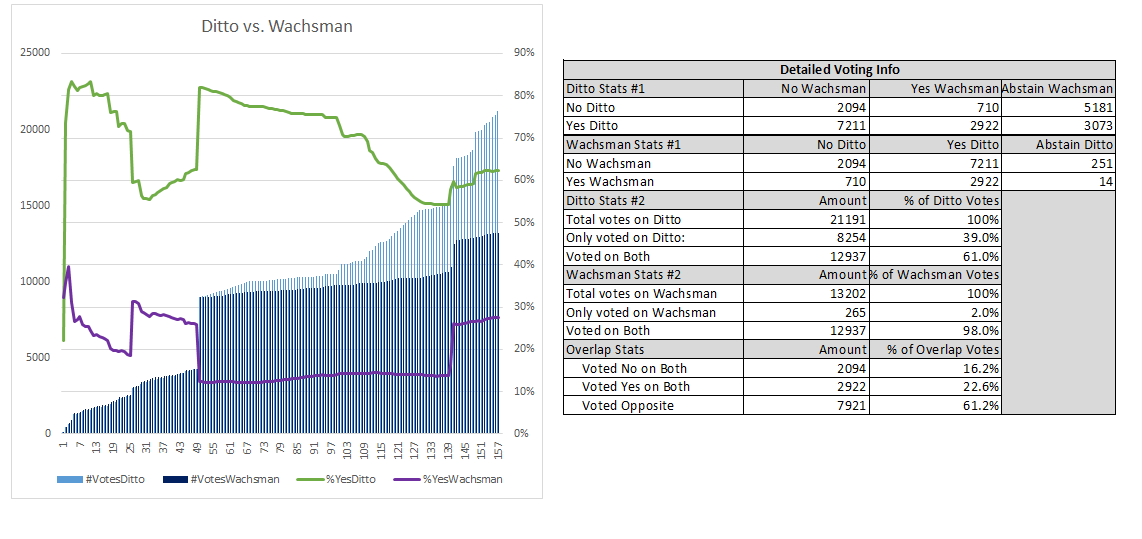
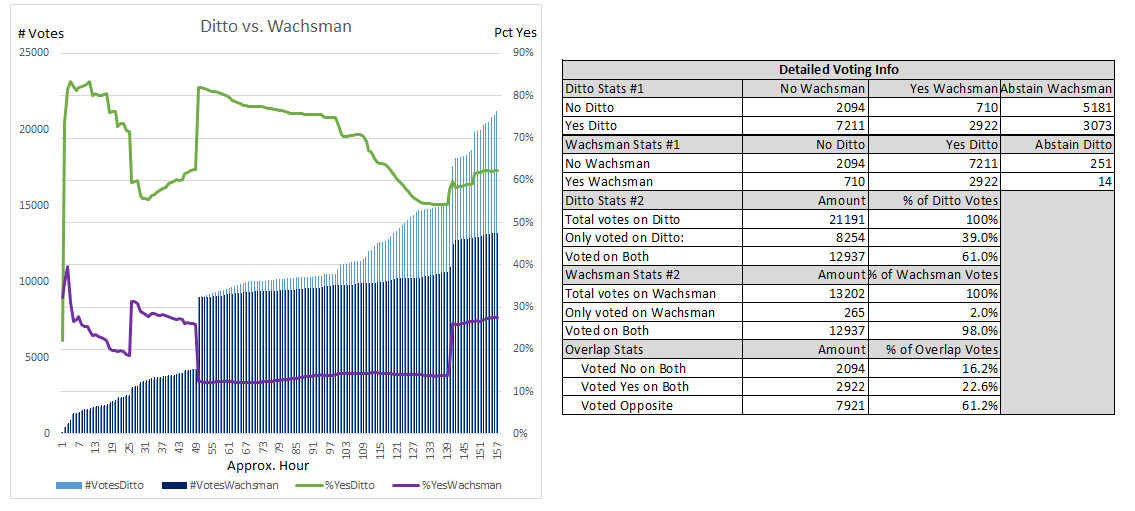
final edits to issue 3

diff --git a/issue-003.md b/issue-003.md
@@ -6,7 +6,7 @@
 
 **[Premium Listing for Decred on Easyrabbit ](https://proposals.decred.org/proposals/34707d34b09c3ebcf0d4aa604e8a08244e8f0f082c0af3f33d85778c93c81434) - submitted Oct 30th by easyrabbit - 11 comments**
 
-Easyrabbit has already listed DCR and is offering a "premium listing" for 30DCR - with promotions like no/low trading fees and feature placement on the site and in social media. Comments point out that Decred has never paid for an exchange listing and generally express scepticism about this offer.
+Easyrabbit has already listed DCR and is offering a "premium listing" for 30 DCR - with promotions like no/low trading fees and feature placement on the site and in social media. Comments point out that Decred has never paid for an exchange listing and generally express scepticism about this offer.
 
 **[Sweepstakes](https://proposals.decred.org/proposals/517ac6598031e17e3e301d41e73a62e4a7c10ee6dafb3dc65fbdd32f550971b0) - submitted Nov 5th by geraldoneto - 8 comments**
 
@@ -20,7 +20,7 @@ The votes that concluded this week all had the same start block. The ticket pool
 
 11,854 Yes votes, 1,287 No votes (90.2% Yes) - voter participation of 32%, support from 28.8% of tickets.
 
-#Research channels have been created on [Matrix](https://matrix.to/#/!vGasNHFXqjoEWUBTIi:decred.org) and Slack platforms and they have been bridged. Discussions of how to get this program up and running have started. Another Politeia proposal for collecting and discussing research questions and methods will be submitted soon.
+#research channels have been created on [Matrix](https://matrix.to/#/!vGasNHFXqjoEWUBTIi:decred.org) and Slack platforms and they have been bridged. Discussions of how to get this program up and running have started. Another Politeia proposal for collecting and discussing research questions and methods will be submitted soon.
 
 **[Change language: PoS Mining to PoS Voting, Stakepool to Voting Service Provider](https://proposals.decred.org/proposals/522652954ea7998f3fca95b9c4ca8907820eb785877dcf7fba92307131818c75) - voting closed Nov 5  - 19 comments  (+0)**
 
@@ -30,7 +30,7 @@ Next step: The [pull request](https://github.com/decred/dcrdocs/pull/590) to mak
 
 **[Ditto Communications Proposal for Decred](https://proposals.decred.org/proposals/27f87171d98b7923a1bd2bee6affed929fa2d2a6e178b5c80a9971a92a5c7f50) - voting closed Nov 5 -  47 comments (+3)**
 
-13,206 Yes votes, 7985 No votes (62.3% Yes) - voter participation of 51.6%, support from 32.1% of tickets.
+13,206 Yes votes, 7,985 No votes (62.3% Yes) - voter participation of 51.6%, support from 32.1% of tickets.
 
 Next step: @dustorf will have a meeting with Ditto representatives to kick things off and report back about how Ditto will communicate with the project and community going forward.
 
@@ -42,7 +42,7 @@ Next step: @dustorf will have a meeting with Ditto representatives to kick thing
 
 ### Politeia Discussions
 
-Much of the discussion in the #Proposals channel this week has been about the ongoing votes. After a few days, the Ditto proposal became the most closely watched, as it bounced above and below the critical 60% threshold.
+Much of the discussion in the #proposals channel this week has been about the ongoing votes. After a few days, the Ditto proposal became the most closely watched, as it bounced above and below the critical 60% threshold.
 
 The details of how Politeia stores data have been discussed. There are no timestamps recorded in the repository for individual ticket votes, but these are journaled and added in hourly commits, so it is possible to know which hour a ticket voted in based on this data. The lack of timestamps in the data is a measure to protect the privacy of people who vote with large blocks of tickets at once without using the vote trickling options CLI offers. 
 
@@ -50,12 +50,19 @@ The details of how Politeia stores data have been discussed. There are no timest
 
 ![Chart showing votes over time for the PR proposals, and a table of other stats - by @snr01](img/issue003/snr01-pr-infographic.png)
 
-The chart indicates that there were short intervals where significant blocks of tickets voted, typically for one proposal and against another. 
+The chart indicates that there were short intervals where significant blocks of tickets voted, typically for one proposal and against another. The most significant instance was on the 3rd day of the voting period, when in a single hour 4,713 tickets voted Yes on Ditto and 4,716 voted No on Wachsman. That could be one large Decred holder voting their tickets at once, or several who happened to vote in the same hour. 
 
-Analysis of the tickets indicates that almost every ticket that votes on the Wachsman proposal also voted on the Ditto proposal (98%), whereas 39% of the tickets that voted on Ditto did not vote on Wachsman. 
+Analysis of the tickets indicates that almost every ticket that voted on the Wachsman proposal also voted on the Ditto proposal (98%), whereas 39% of the tickets that voted on Ditto did not vote on Wachsman. The divergence in voting rates happened after that big block of votes on day 3. It is likely a reaction to the big block of votes making it seem unlikely that the Wachsman proposal would pass.
 
-Of the 12,937 tickets that voted on both proposals, 61.2% voted for one and against the other, 22.6% voted Yes on both, and 16.2% votes No on both.
+The Ditto proposal's approval rate steadily decreased after this, and was at less than the required 60% for much of the last few days, until a late surge in Yes votes pushed it over the line.
+
+Of the 12,937 tickets that voted on both proposals, 61.2% voted for one and against the other, 22.6% voted Yes on both, and 16.2% voted No on both. There are significant groups within the community who wanted neither firm to be hired, and who were happy with either/both.
+
+Work on a more efficient way of re-formatting the data to make it amenable to analysis was also discussed in the channel.
 
 ### Documentation for Politeia data
 
-A [pull request](https://github.com/decred/dcrdocs/pull/679) is open to add a page about navigating Politeia data to the docs site. 
+A [pull request](https://github.com/decred/dcrdocs/pull/679) is open to add a page about navigating Politeia data to the docs site.
+
+
+
